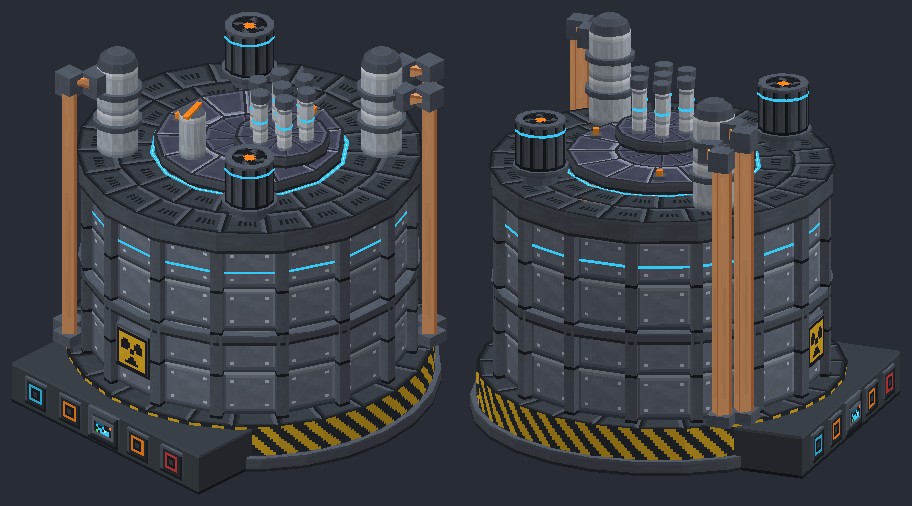
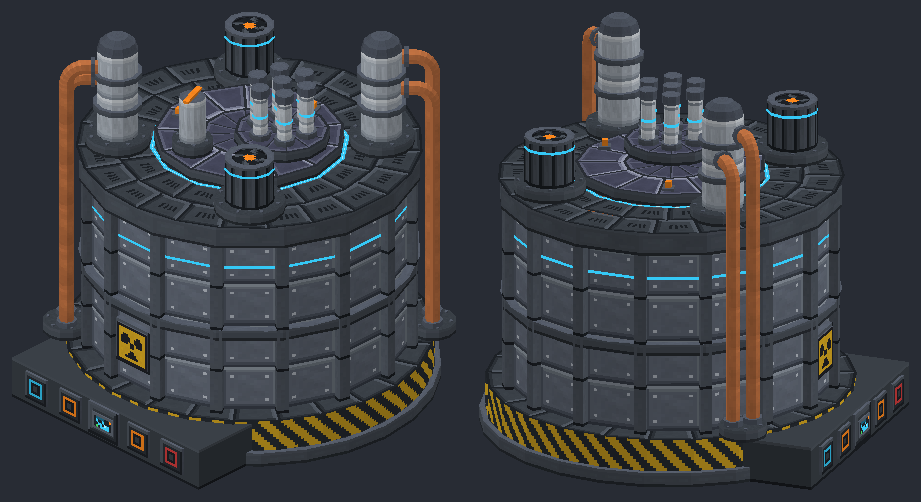
Breeder concept: round sodium pipes with flanged nozzles and bends, and bolted pads seating the roof machinery

Changed region(s): [[0.0614, 0.0299, 0.9825, 0.9562], [0.0307, 0.747, 0.2149, 0.9562], [0.8289, 0.9562, 0.8904, 0.9861]]

diff --git a/art/tools/breeder_concept.py b/art/tools/breeder_concept.py
@@ -131,6 +131,67 @@ def on_circle(phi, rad):
     return C + rad * math.cos(phi), C + rad * math.sin(phi)
 
 
+PAD_H = 4
+
+
+def pad(x, z, y, r_in, r, bolts=8, n=16):
+    """A raised pad seating a machine in the roof (or a pipe in the plinth), as real roof
+    penetrations are: graphite in the deck's colour, a band round its edge, and a ring of bolts,
+    so the machine rises out of the roof rather than standing on it."""
+    with centred(x, z):
+        band(y, PAD_H, r, n=n)
+        d.annulus('breeder_graphite', y + PAD_H, r_in, r, n=n)
+    for k in range(bolts):
+        bx, bz = x + (r - 1.6) * math.cos(2 * math.pi * (k + 0.5) / bolts), z + (r - 1.6) * math.sin(2 * math.pi * (k + 0.5) / bolts)
+        d.box('breeder_fitting', bx - 0.5, y + PAD_H, bz - 0.5, bx + 0.5, y + PAD_H + 0.5, bz + 0.5, skip=('down',))
+
+
+def norm3(v):
+    length = math.sqrt(sum(c * c for c in v))
+    return tuple(c / length for c in v)
+
+
+def tube(mat, path, r, across, sides=8, caps=False):
+    """A round pipe along `path` (points), turning in the plane square to `across`: rings of
+    `sides` round each point, the texture wrapped once round the pipe and laid along it a pixel
+    per pixel, split so no piece is longer than a block."""
+    pts = [path[0]]
+    for a, b in zip(path, path[1:]):
+        length = math.dist(a, b)
+        pieces = max(1, math.ceil(length / B))
+        pts += [tuple(a[i] + (b[i] - a[i]) * (k + 1) / pieces for i in range(3)) for k in range(pieces)]
+    tangents = []
+    for i in range(len(pts)):
+        a, b = pts[max(0, i - 1)], pts[min(len(pts) - 1, i + 1)]
+        tangents.append(norm3(tuple(b[k] - a[k] for k in range(3))))
+
+    def ring(i):
+        t = tangents[i]
+        up = norm3((across[1] * t[2] - across[2] * t[1], across[2] * t[0] - across[0] * t[2], across[0] * t[1] - across[1] * t[0]))
+        out = []
+        for k in range(sides + 1):
+            th = 2 * math.pi * k / sides
+            dirv = tuple(math.cos(th) * across[j] + math.sin(th) * up[j] for j in range(3))
+            out.append((tuple(pts[i][j] + r * dirv[j] for j in range(3)), dirv))
+        return out
+
+    rings = [ring(i) for i in range(len(pts))]
+    for i in range(len(pts) - 1):
+        v = min(16, math.dist(pts[i], pts[i + 1]))
+        for k in range(sides):
+            (p0, n0), (p1, n1) = rings[i][k], rings[i][k + 1]
+            (q0, _), (q1, _) = rings[i + 1][k], rings[i + 1][k + 1]
+            u0, u1 = 16 * k / sides, 16 * (k + 1) / sides
+            d.quad(mat, [p0, q0, q1, p1], [(u0, 0), (u0, v), (u1, v), (u1, 0)], norm3(tuple(n0[j] + n1[j] for j in range(3))))
+    if caps:
+        for i, sign in ((0, -1), (len(pts) - 1, 1)):
+            t = tangents[i]
+            c = pts[i]
+            for k in range(sides):
+                (p0, _), (p1, _) = rings[i][k], rings[i][k + 1]
+                d.quad(mat, [c, c, p1, p0], [(8, 8), (8, 8), (16, 16), (16, 0)], tuple(sign * t[j] for j in range(3)))
+
+
 # ---------------------------------------------------------------- plinth, with the console proud of its front
 d.annulus('breeder_plinth', 16, 0, PLINTH_R, step=PLINTH_R / 4)
 d.cylinder('hazard', 5, 16, PLINTH_R)
@@ -185,10 +246,11 @@ with group('plug_large'):
     # The fuel handling machine, front left of the large plug: a cask a block high over a port,
     # and an orange lifting frame.
     FX, FZ = on_circle(math.radians(215), 22)
+    pad(FX, FZ, PLUG_TOP, 4.5, 7, bolts=6, n=12)
     with centred(FX, FZ):
-        d.cylinder('breeder_exchanger', PLUG_TOP, PLUG_TOP + B, 4.5, n=12)
-        d.annulus('breeder_fitting', PLUG_TOP + B, 0, 4.5, n=12)
-    d.box('breeder_lug', FX - 5.5, PLUG_TOP + B, FZ - 1, FX + 5.5, PLUG_TOP + B + 1, FZ + 1)
+        d.cylinder('breeder_exchanger', PLUG_TOP + PAD_H, PLUG_TOP + PAD_H + B, 4.5, n=12)
+        d.annulus('breeder_fitting', PLUG_TOP + PAD_H + B, 0, 4.5, n=12)
+    d.box('breeder_lug', FX - 5.5, PLUG_TOP + PAD_H + B, FZ - 1, FX + 5.5, PLUG_TOP + PAD_H + B + 1, FZ + 1)
 with group('plug_small'):
     with centred(SX, SZ):
         band(PLUG_TOP, 4, SMALL_R)
@@ -197,6 +259,8 @@ with group('plug_small'):
     DRIVES = [(0, 0)] + [(9 * math.cos(math.radians(a)), 9 * math.sin(math.radians(a))) for a in range(30, 390, 60)]
     for dx, dz in DRIVES:
         with centred(SX + dx, SZ + dz):
+            band(SMALL_TOP, 2, 3.6, n=8)
+            d.annulus('breeder_fitting', SMALL_TOP + 2, 2.5, 3.6, n=8)
             blocks('breeder_drive', SMALL_TOP, DRIVE_TOP, 2.5, n=8)
             d.cylinder('glow', SMALL_TOP + 8, SMALL_TOP + 9, 2.7, n=8)
             d.disc('breeder_fitting', DRIVE_TOP, DRIVE_TOP + 3, 3.2, n=8)
@@ -206,59 +270,69 @@ with group('shafts'):
         with centred(SX + dx, SZ + dz):
             d.disc('breeder_shaft', DRIVE_TOP + 3, DRIVE_TOP + 8, 1, n=6, bottom=False)
 
-# ---------------------------------------------------------------- pumps and heat exchangers through the deck
+# ---------------------------------------------------------------- pumps and heat exchangers, seated in the roof
 PR = TANK_R - 10       # their circle, clear of the large plug and inside the roof's edge
-# Primary pumps (front left and back right as you face it): a neck, a flange, a finned motor a
-# block high with one fin per panel, and the fan across its top.
+SEAT = ROOF_TOP + PAD_H
+# Primary pumps (front left and back right as you face it): a finned motor a block high with one
+# fin per panel, rising out of its pad, and the fan across its top.
 PUMPS = [math.radians(a) for a in (225, 45)]
-MOTOR = ROOF_TOP + 6
 for phi in PUMPS:
     x, z = on_circle(phi, PR)
+    pad(x, z, ROOF_TOP, 8.5, 12)
     with centred(x, z):
-        d.cylinder('breeder_fitting', ROOF_TOP, ROOF_TOP + 4, 6)
-        band(ROOF_TOP + 4, 2, 9.5)
-        d.annulus('breeder_fitting', ROOF_TOP + 6, 8.5, 9.5)
-        d.annulus('breeder_fitting', ROOF_TOP + 4, 6, 9.5, up=False)
-        blocks('breeder_pump', MOTOR, MOTOR + B, 8.5, n=12)
-        d.cylinder('glow', MOTOR + 12, MOTOR + 13, 8.7, n=12)
-        d.annulus('breeder_fitting', MOTOR + B, 6, 8.5, n=12)
+        blocks('breeder_pump', SEAT, SEAT + B, 8.5, n=12)
+        d.cylinder('glow', SEAT + 12, SEAT + 13, 8.7, n=12)
+        d.annulus('breeder_fitting', SEAT + B, 6, 8.5, n=12)
     with group('fan'):
-        decal_disc('breeder_fan', x, z, MOTOR + B - 0.5, 6, 12)
-# Intermediate heat exchangers (front right and back left): light columns two blocks high with
-# two flanges and a domed head; the secondary loop leaves from their heads.
+        decal_disc('breeder_fan', x, z, SEAT + B - 0.5, 6, 12)
+# Intermediate heat exchangers (front right and back left): light columns two blocks high, rising
+# out of their pads, with two flanges and a domed head; the secondary loop leaves from a nozzle
+# near the head.
 EXCHANGERS = [math.radians(a) for a in (315, 135)]
-EX_TOP = ROOF_TOP + 2 * B
+EX_R = 7
+EX_TOP = SEAT + 2 * B
 for phi in EXCHANGERS:
     x, z = on_circle(phi, PR)
+    pad(x, z, ROOF_TOP, EX_R, 11)
     with centred(x, z):
-        blocks('breeder_exchanger', ROOF_TOP, EX_TOP, 7, n=12)
-        for y in (ROOF_TOP + 10, ROOF_TOP + 22):
-            band(y, 2, 8.5, n=12)
-            d.annulus('breeder_fitting', y + 2, 7, 8.5, n=12)
-            d.annulus('breeder_fitting', y, 7, 8.5, up=False, n=12)
-        d.lathe('breeder_fitting', [(EX_TOP, 7), (EX_TOP + 3, 6), (EX_TOP + 5, 3.5), (EX_TOP + 6, 0)], n=12)
+        blocks('breeder_exchanger', SEAT, EX_TOP, EX_R, n=12)
+        for y in (SEAT + 10, SEAT + 22):
+            band(y, 2, EX_R + 1.5, n=12)
+            d.annulus('breeder_fitting', y + 2, EX_R, EX_R + 1.5, n=12)
+            d.annulus('breeder_fitting', y, EX_R, EX_R + 1.5, up=False, n=12)
+        d.lathe('breeder_fitting', [(EX_TOP, EX_R), (EX_TOP + 3, 6), (EX_TOP + 5, 3.5), (EX_TOP + 6, 0)], n=12)
 
-# ---------------------------------------------------------------- the secondary loops: from each exchanger's head, over the edge, down the tank
-# Hot and cold legs side by side, leaving the head sideways, over the roof's edge and down the
-# rib gap to a flanged penetration on the plinth.
+# ---------------------------------------------------------------- the secondary loops: round pipes from each exchanger, over the edge, down the tank
+# Hot and cold legs side by side. Each leaves the exchanger through a flanged nozzle, runs out over
+# the roof's edge, turns down on a smooth bend, runs down the rib gap and enters the plinth through
+# a collar in a pad.
 PIPE = 2.5
-R_DOWN = ROOF_R + 2
+BEND = 6
+R_DOWN = ROOF_R + 3
+FOOT = 16 + PAD_H
 for phi in EXCHANGERS:
     out = (math.cos(phi), 0, math.sin(phi))
     across = (-math.sin(phi), 0, math.cos(phi))
+
+    def at(rad, y, off):
+        return (C + rad * out[0] + off * across[0], y, C + rad * out[2] + off * across[2])
+
     for side in (-1, 1):
-        off = side * 4
-        y = EX_TOP - 4 - (side + 1) * 3
-        pts = [(C + (PR + 7) * out[0] + off * across[0], y, C + (PR + 7) * out[2] + off * across[2]),
-               (C + R_DOWN * out[0] + off * across[0], y, C + R_DOWN * out[2] + off * across[2]),
-               (C + R_DOWN * out[0] + off * across[0], 20, C + R_DOWN * out[2] + off * across[2])]
-        d.sweep('breeder_pipe', pts, PIPE, PIPE, lambda i: across, closed=False, caps=True, along_v=True)
-        # Flanges at the head and the bend, and the penetration on the plinth.
-        for p in pts[:2]:
-            h = PIPE + 1
-            d.box('breeder_fitting', p[0] - h, p[1] - h, p[2] - h, p[0] + h, p[1] + h, p[2] + h)
-        f = pts[2]
-        d.box('breeder_fitting', f[0] - 4, 16, f[2] - 4, f[0] + 4, 20, f[2] + 4)
+        off = side * 3.5
+        y = EX_TOP - 5 if side < 0 else EX_TOP - 13
+        start = PR + EX_R - 0.5
+        path = [at(start, y, off), at(R_DOWN - BEND, y, off)]
+        for k in range(1, 7):
+            a = math.radians(90 * k / 6)
+            path.append(at(R_DOWN - BEND + BEND * math.sin(a), y - BEND + BEND * math.cos(a), off))
+        path.append(at(R_DOWN, FOOT, off))
+        tube('breeder_pipe', path, PIPE, across)
+        # The nozzle's flange on the exchanger, a collar where the pipe enters the plinth, and
+        # that collar's pad.
+        tube('breeder_fitting', [at(start + 1, y, off), at(start + 2.5, y, off)], PIPE + 1, across, caps=True)
+        tube('breeder_fitting', [at(R_DOWN, FOOT, off), at(R_DOWN, FOOT + 2, off)], PIPE + 1, across, caps=True)
+    fx, _, fz = at(R_DOWN, 0, 0)
+    pad(fx, fz, 16, 0, 8, bolts=6, n=12)
 
 
 # ---------------------------------------------------------------- the moving parts, posed

diff --git a/art/tools/breeder_textures.py b/art/tools/breeder_textures.py
@@ -133,12 +133,18 @@ def fitting():
 
 
 def pipe():
-    """The secondary sodium loops: clean copper, lit down one side and shaded down the other,
-    the same all along, so a run of any length ends evenly."""
+    """The secondary sodium loops: clean copper, plain, so a round pipe of any length and any bend
+    shows it evenly; its roundness comes from the shading."""
     t = Tex()
     t.rect(0, 0, 15, 15, 'R')
-    t.rect(0, 0, 3, 15, 'e')
-    t.rect(12, 0, 15, 15, 'r')
+    return t
+
+
+def graphite():
+    """The pads that seat the roof's machinery, and the plinth's pipe pads: plain graphite, the
+    deck's colour, so they read as part of the roof however small a wedge they are cut into."""
+    t = Tex()
+    t.rect(0, 0, 15, 15, 'S')
     return t
 
 
@@ -224,6 +230,7 @@ TEXTURES = {
     'exchanger': exchanger,
     'fitting': fitting,
     'pipe': pipe,
+    'graphite': graphite,
     'lug': lug,
     'fan': fan,
     'trefoil': trefoil,

diff --git a/docs/DESIGN.md b/docs/DESIGN.md
@@ -384,7 +384,7 @@ Real basis: every pass through a thermal reactor builds up heavier plutonium iso
 ### Shape (concept, 30 Sep 2026)
 Concept in `art/tools/breeder_concept.py` (textures `breeder_textures.py`, renders `art/concepts/breeder.png` and `breeder_moving.png`). A pool-type sodium fast reactor, as most real ones are built: 9 blocks across and 7 high, a little smaller than the station.
 - **Sealed, not seen through.** The core sits deep in a round tank of liquid sodium, which is opaque, so there is no glass: the station is the reactor you watch, the breeder the one you run. A gunmetal guard vessel with ribs, a graphite band, a cyan light strip and a radiation trefoil on the front (multiblocks may carry one).
-- **The roof carries everything**, as on real pool-type plants: a thick slab with two rotating plugs (a large one and a small one set off its middle), the control rod drives and the fuel handling machine on the small plug, two primary pumps (finned motors with fans) and two intermediate heat exchangers (tall, light casing) through the deck, and the secondary sodium loops in copper, carried from the exchangers down the tank to the plinth.
+- **The roof carries everything**, as on real pool-type plants: a thick slab with two rotating plugs (a large one and a small one set off its middle), the control rod drives and the fuel handling machine on the small plug, two primary pumps (finned motors with fans) and two intermediate heat exchangers (tall, light casing) through the deck, and the secondary sodium loops in round copper pipe, leaving the exchangers through flanged nozzles, turning down over the roof's edge and entering the plinth through collars. Everything through the roof rises out of a bolted pad in the deck's graphite, as real roof penetrations are seated, so it reads as built in, not set on top.
 - **The console** on the front, proud of the plinth: as you face it, fuel in and liquid sodium in on the left, the output port (spent fuel and what the blanket bred) and energy out on the right, the control core's screen in the middle.
 - **Moving parts** (each its own group in the design, for a block entity renderer):
   - the pump fans turn while sodium flows;
